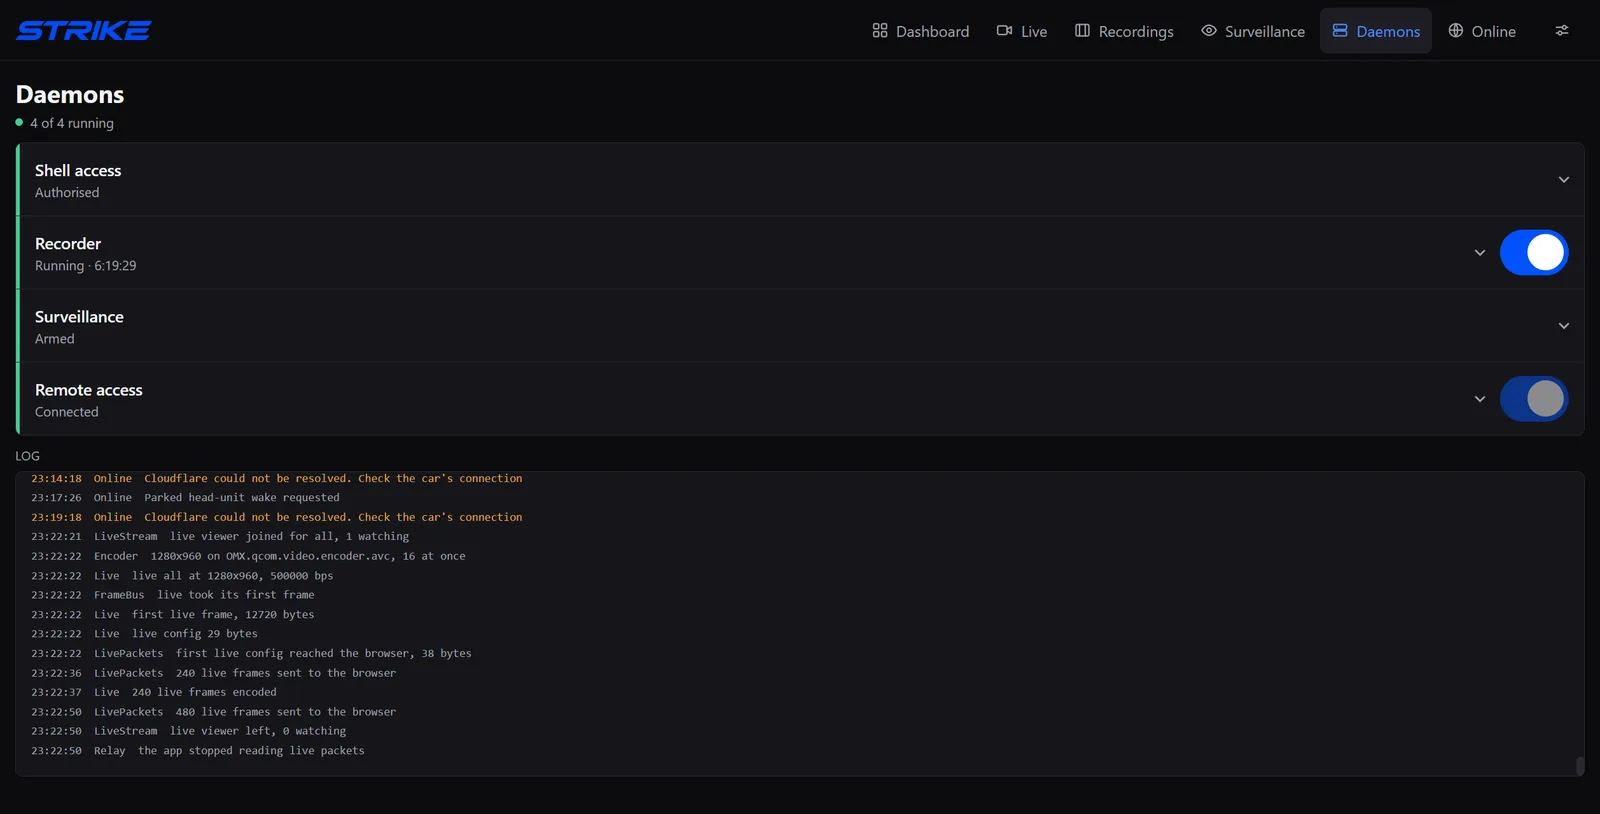
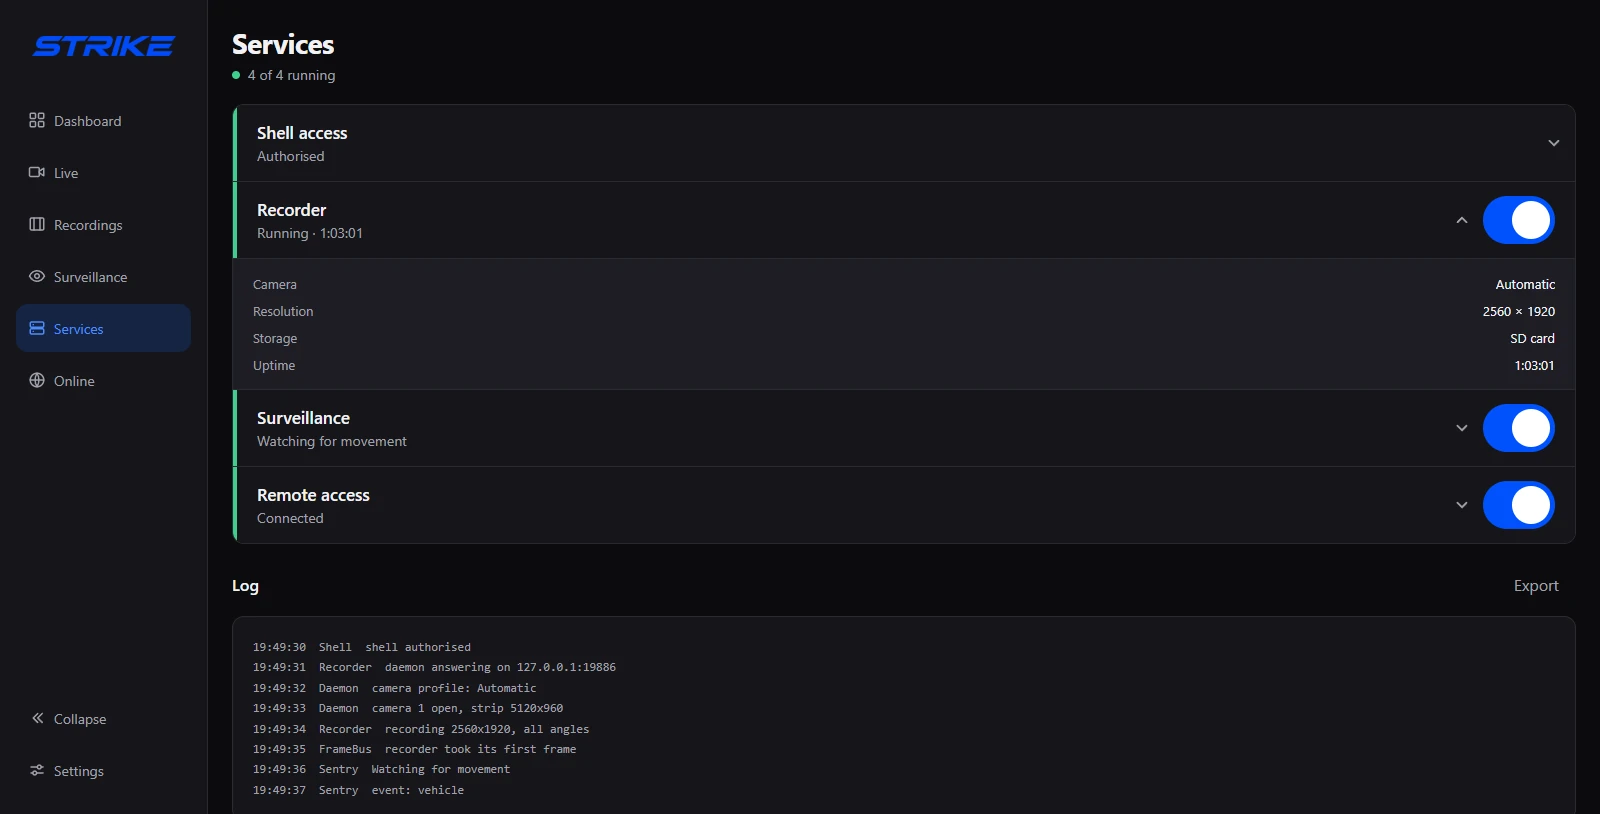
docs: refresh screenshots and introduce Strike Connect

diff --git a/README.md b/README.md
@@ -5,15 +5,15 @@
 # Your car. On watch.
 
 **Dashcam and parked surveillance for BYD head units.**
-Records locally on the car's own cameras, watches while you're parked, and opens
-the same dashboard from your phone.
+Records locally on the car's own cameras and watches while you're parked.
+Check in from a browser, or pair a phone with Strike Connect in Strike 1.0.
 
 [![Latest release](https://img.shields.io/github/v/release/UnrealSalty/Strike?style=flat-square&label=release&color=2b6cff)](https://github.com/UnrealSalty/Strike/releases/latest)
 [![Downloads](https://img.shields.io/github/downloads/UnrealSalty/Strike/total?style=flat-square&label=downloads&color=2b6cff)](https://github.com/UnrealSalty/Strike/releases)
 [![Discord](https://img.shields.io/badge/Discord-join-5865F2?style=flat-square&logo=discord&logoColor=white)](https://discord.gg/DTBZRgHX3s)
 [![Buy Me a Coffee](https://img.shields.io/badge/Buy%20Me%20a%20Coffee-ffdd00?style=flat-square&logo=buymeacoffee&logoColor=000)](https://buymeacoffee.com/unrealsalty)
 
-[**Download the APK**](https://github.com/UnrealSalty/Strike/releases/latest) &nbsp;·&nbsp; [Installation guide](docs/installation.md) &nbsp;·&nbsp; [AI detector source](ai/README.md) &nbsp;·&nbsp; [strikebyd.com](https://strikebyd.com) &nbsp;·&nbsp; [Report a bug](https://github.com/UnrealSalty/Strike/issues)
+[**Download the car APK**](https://github.com/UnrealSalty/Strike/releases/latest) &nbsp;·&nbsp; [**Download Strike Connect**](https://strikebyd.com/pair) &nbsp;·&nbsp; [Installation guide](docs/installation.md) &nbsp;·&nbsp; [AI detector source](ai/README.md) &nbsp;·&nbsp; [strikebyd.com](https://strikebyd.com) &nbsp;·&nbsp; [Report a bug](https://github.com/UnrealSalty/Strike/issues)
 
 <a href="https://buymeacoffee.com/unrealsalty"><img src="https://cdn.buymeacoffee.com/buttons/v2/default-yellow.png" alt="Buy Me a Coffee" width="140"></a>
 
@@ -21,7 +21,7 @@ the same dashboard from your phone.
 
 <sub>Records while you drive &nbsp;·&nbsp; Watches while you're parked &nbsp;·&nbsp; Opens in any browser</sub>
 
-<sub>Interface previews use sample vehicle, storage, and connection values.</sub>
+<sub>Preview of Strike 1.0 with sample data. The current public car release is v0.8. Strike Connect is in testing; store downloads are not available yet.</sub>
 
 </div>
 
@@ -41,8 +41,9 @@ an optional red screen deterrent.
 angle. Browse recordings and surveillance events in separate libraries.
 - 💾 **Your storage.** Save to internal storage, SD, or USB. Give recordings and
 surveillance their own space limits; the oldest finished clips rotate out.
-- 📱 **Access from your phone.** Open the dashboard on your local network, or use
-your own domain with an optional Cloudflare tunnel.
+- 📱 **Phone and browser access.** Use the browser dashboard through your local
+network, Cloudflare, or zrok. Strike 1.0 also adds Strike Services for pairing the
+separate Strike Connect phone app.
 
 Footage is stored on the car, and detection runs on the head unit. Remote access
 is optional. Strike has no account or subscription of its own.
@@ -56,10 +57,10 @@ is optional. Strike has no account or subscription of its own.
 </tr>
 <tr>
 <td width="50%"><img src="art/screenshots/surveillance.webp" alt="Surveillance events with person and vehicle detections"><br><sub><b>Surveillance</b> — parked events, with person and vehicle detections.</sub></td>
-<td width="50%"><img src="art/screenshots/online.webp" alt="Online page with Cloudflare and zrok, addresses masked"><br><sub><b>Online</b> — remote access with Cloudflare and zrok.</sub></td>
+<td width="50%"><img src="art/screenshots/online.webp" alt="Online page with Strike Services, Cloudflare and zrok"><br><sub><b>Online</b> — choose Strike Services, Cloudflare, or zrok.</sub></td>
 </tr>
 <tr>
-<td width="50%"><img src="art/screenshots/daemons.webp" alt="Daemons page showing recorder, surveillance, remote access and the log"><br><sub><b>Daemons</b> — recorder, surveillance, remote access, and the log.</sub></td>
+<td width="50%"><img src="art/screenshots/daemons.webp" alt="Services page showing recorder, surveillance, remote access and the log"><br><sub><b>Services</b> — recorder, surveillance, remote access, and the log.</sub></td>
 <td width="50%"><img src="art/screenshots/settings.webp" alt="Settings page showing versions and the Automatic camera profile"><br><sub><b>Settings</b> — versions, camera profile, and the in-car PIN.</sub></td>
 </tr>
 </table>
@@ -97,43 +98,61 @@ parked is not promised.
 
 <br clear="all">
 
-## Built lean
+## Built for the car
 
-- 📦 **One APK.** No companion app, no Play services, no installer.
-- 🧩 **Four dependencies.** core-ktx, coroutines, `dadb` for the local ADB
-connection, and TensorFlow Lite for detection.
-- ⚡ **An interface of about 230 KB.** Plain HTML, CSS, and JavaScript. No
-framework, no bundler, no build step, no CDN, and no remote fonts, so every
-screen loads with the car offline.
-- 🔒 **No telemetry, analytics, or crash reporting.** The only address Strike calls
-on its own is GitHub's release API, at most once a day.
+- **Local recording and detection.** Footage stays on the selected storage, and
+  detection runs on the head unit.
+- **Shared camera feed.** Recording, surveillance, and live view share the same
+  camera source.
+- **Offline interface.** The car app bundles its interface and fonts locally.
+  Remote access is optional.
 
-## Away from the car. Still in the picture.
+## Strike Connect for your phone
 
-<img src="art/screenshots/phone.webp" alt="A phone showing the Strike dashboard with vehicle status and quick actions" align="right" width="220">
+<img src="art/screenshots/phone.webp" alt="Strike Connect phone app showing a paired car" align="right" width="220">
 
-Strike serves its own interface. Open the car's address and you get the same live
-view and recordings, behind an access code. Connect on your local network, or
-reach the car from anywhere with your own domain over a Cloudflare tunnel, or a
-public zrok link. Only one remote service runs at a time.
+Strike Connect is the separate iPhone and Android app for Strike 1.0. View live
+cameras, play and save clips, check surveillance activity, and manage Strike's
+settings from your phone.
 
-The head unit has to be awake and online. A tunnel cannot wake a sleeping car.
+On the car, choose **Online → Strike Services → Pair a phone**. In the phone app,
+scan the QR code or enter its six-digit code, then approve the matching
+confirmation number on the car. No account is needed.
+
+[**Download Strike Connect for iPhone or Android**](https://strikebyd.com/pair)
+
+Strike Connect is in testing. The phone download page shows availability for
+each platform; store downloads are not available yet.
+
+Strike Services connects the paired car and phone through Strike's backend,
+with a relay when needed. The car must be awake and online for live access.
+Clips saved to the phone remain available offline.
 
 <br clear="all">
+
+## Browser access
+
+Strike also serves its own browser interface. Open the car's address for live
+view and recordings, protected by a browser access code. Connect on your local
+network, through your own Cloudflare domain, or through a public zrok link.
+Only one remote service runs at a time.
+
+The head unit has to be awake and online. A tunnel cannot wake a sleeping car.
 
 ## Get started
 
 Follow the [installation guide](docs/installation.md) to connect through ADB and
-install the APK from Windows, macOS, Linux, or an Android phone. Once installed:
+install the APK from Windows, macOS, Linux, or an Android phone. Once installed,
+use the steps below. **Services** is named **Daemons** in v0.8.
 
 1. Open Strike and grant storage and microphone permissions. Audio is recorded
   only when you enable cabin audio.
-2. Select **Daemons → Connect** if needed
+2. Select **Services → Connect** if needed
   and accept the debugging prompt. Strike restarts once after initial access and
   permissions are ready.
 3. Open **Recordings → Settings**. Choose **Continuous** or **Driving only**, a
   storage location, storage limit, and clip length. Recording starts out **Off**.
-4. Turn on **Recorder** in **Daemons**.
+4. Turn on **Recorder** in **Services**.
 5. For parked recording, open **Surveillance → Settings**, enable **Watch the car
   when it is off**, and choose Smart or Continuous mode.
 
@@ -156,7 +175,7 @@ not yet been verified.
 If the camera views are split incorrectly, **Settings → Cameras** offers legacy
 profiles for Seal, Atto 3, and Tang 2022, plus
 Strike's Atto 2 profile. After choosing one, turn **Recorder** off and on in
-**Daemons**. Automatic uses camera-tag discovery, then recognizable Atto 2 or
+**Services**. Automatic uses camera-tag discovery, then recognizable Atto 2 or
 Atto 3 model names, otherwise the legacy camera-1 profile. If that camera
 opens but sends no frames for 25 seconds, Automatic tries raw camera 0 and remembers
 it after frames arrive. A firmware change clears that preference. These profiles
@@ -175,7 +194,9 @@ car's cameras.
 Automatic parked operation requires working ignition readings. Local ADB must be
 available on port 5555 and authorized on the head unit.
 
-## Access from your phone
+<a id="access-from-your-phone"></a>
+
+## Set up browser access
 
 On the car's **Online** page, copy a local address and open it on a phone or
 computer that can reach the car's network. Enter the **Browser access** code
@@ -205,7 +226,7 @@ token, Cloudflare can send requests to either device.
 
 The tunnel can run **Always**, when the **Car is off**, or **On lock**. On lock
 requires a confirmed lock reading. Automatic modes stop if ignition readings are
-unavailable. The same tunnel switch appears in **Daemons**; turning it off cancels
+unavailable. The same tunnel switch appears in **Services**; turning it off cancels
 automatic starts too. Tunnel controls and setup are available from the car;
 browsers show their status.
 
@@ -230,9 +251,9 @@ Parked capture uses power to keep the cameras and head unit awake. Battery use
 has not been measured across vehicles. A sudden power cut can leave the clip
 being written unplayable.
 
-## BYD services
+## BYD features
 
-Strike only reads from the car, with one exception. **Settings → Services** can
+Strike only reads from the car, with one exception. **Settings → BYD features** can
 switch off BYD apps you don't use, so they stop competing with recording for the
 head unit's CPU and cameras:
 

diff --git a/docs/installation.md b/docs/installation.md
@@ -1,6 +1,6 @@
 # Install Strike
 
-[Download Strike.apk](https://github.com/UnrealSalty/Strike/releases/latest) · [Website](https://strikebyd.com) · [Back to Strike](../README.md)
+[Download Strike.apk](https://github.com/UnrealSalty/Strike/releases/latest) · [Strike Connect for phones](https://strikebyd.com/pair) · [Website](https://strikebyd.com) · [Back to Strike](../README.md)
 
 This guide installs the official APK through an authorized ADB connection to the
 car's head unit. It works from Windows, macOS, Linux, or an Android phone with a
@@ -93,16 +93,18 @@ only when the device is authorized and installation reports **`Success`**.
 
 ## Set up your first recording
 
+The screenshots preview Strike 1.0. In v0.8, **Services** is named **Daemons**.
+
 1. Open **Strike** on the car and grant its storage and microphone permissions.
    Microphone permission alone does not start audio recording; **Cabin audio**
    is controlled in recording settings.
-2. Open **Daemons**. If **Shell access** is not authorized, select **Connect** and
+2. Open **Services**. If **Shell access** is not authorized, select **Connect** and
    accept Strike's own debugging prompt on the head unit. Approving your computer
    earlier does not approve Strike's separate connection. Initial setup restarts
    Strike once access and permissions are ready.
 3. Open **Recordings → Settings**. Change **Mode** from **Off** to **Continuous**
    or **Driving only**. Choose **Storage**, **Storage limit**, and **Clip length**.
-4. Open **Daemons** and turn **Recorder** on.
+4. Open **Services** and turn **Recorder** on.
 5. Check **Live** for the camera picture. Let a clip finish, then open it in
    **Recordings** to check playback and the selected storage.
 
@@ -120,7 +122,7 @@ confirmed driving state. Parked recording is configured separately below.
 4. Choose whether surveillance **Starts** on ignition off or locking, and select
    its storage and storage limit.
 
-Keep **Recorder** enabled in **Daemons**. If the head unit has a **Disable
+Keep **Recorder** enabled in **Services**. If the head unit has a **Disable
 Autostart** list, make sure Strike is not disabled there. In a list with that
 title, enabling the disable switch blocks autostart.
 
@@ -158,7 +160,7 @@ settings, PIN, and browser access.
 
 For an unresolved problem, include the car model, DiLink/Android version, Strike
 version, and exact error in a [bug report](https://github.com/UnrealSalty/Strike/issues)
-or [Discord](https://discord.gg/DTBZRgHX3s). Logs can be exported from **Daemons → Export**;
+or [Discord](https://discord.gg/DTBZRgHX3s). Logs can be exported from **Services → Log → Export**;
 review them for personal details before sharing.
 
 The connection and installation commands follow Google's [ADB documentation](https://developer.android.com/tools/adb).
